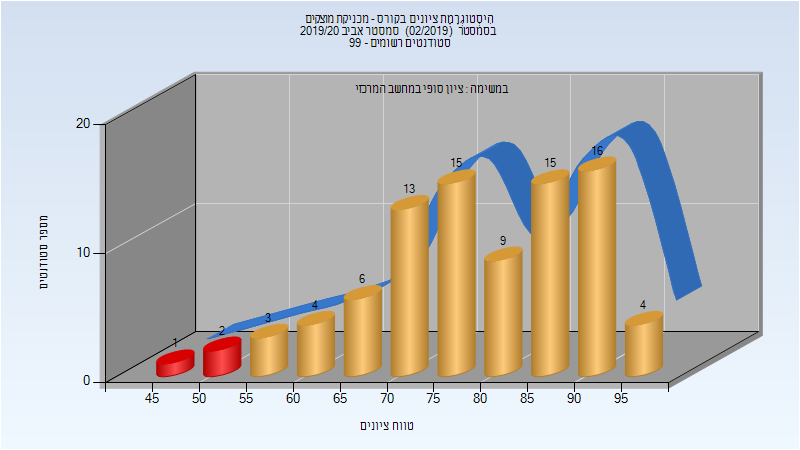
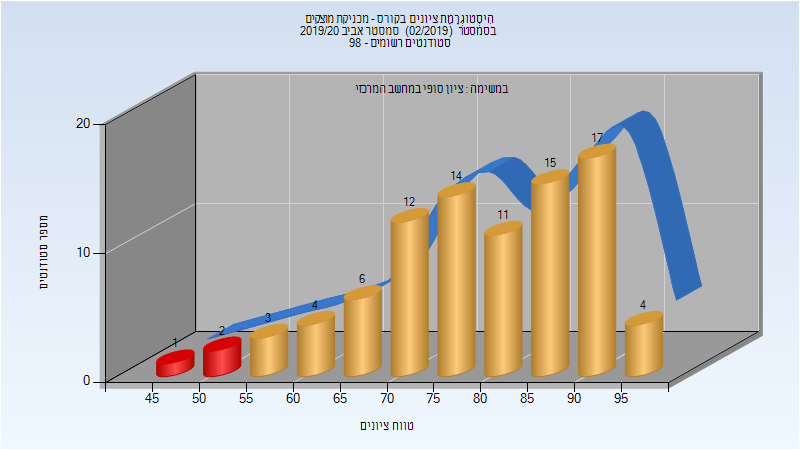
Deploy michael-maltsev/technion-histograms to github.com/michael-maltsev/technion-histograms.git:gh-pages

diff --git a/084506/index.html b/084506/index.html
@@ -364,13 +364,13 @@
 </thead>
 <tbody>
 <tr>
-<td>88</td>
-<td>85/3</td>
+<td>89</td>
+<td>86/3</td>
 <td>97</td>
 <td>47</td>
 <td>99</td>
-<td>78.955</td>
-<td>79.5</td>
+<td>79.315</td>
+<td>80</td>
 </tr>
 </tbody>
 </table>

diff --git a/084506/README.md b/084506/README.md
@@ -110,5 +110,5 @@
 
 | סטודנטים | עברו/נכשלו | אחוז עוברים | ציון מינימלי | ציון מקסימלי | ממוצע | חציון |
 | ---- | ---- | ---- | ---- | ---- | ---- | ---- |
-| 88 | 85/3 | 97 | 47 | 99 | 78.955 | 79.5 |
+| 89 | 86/3 | 97 | 47 | 99 | 79.315 | 80 |
 
